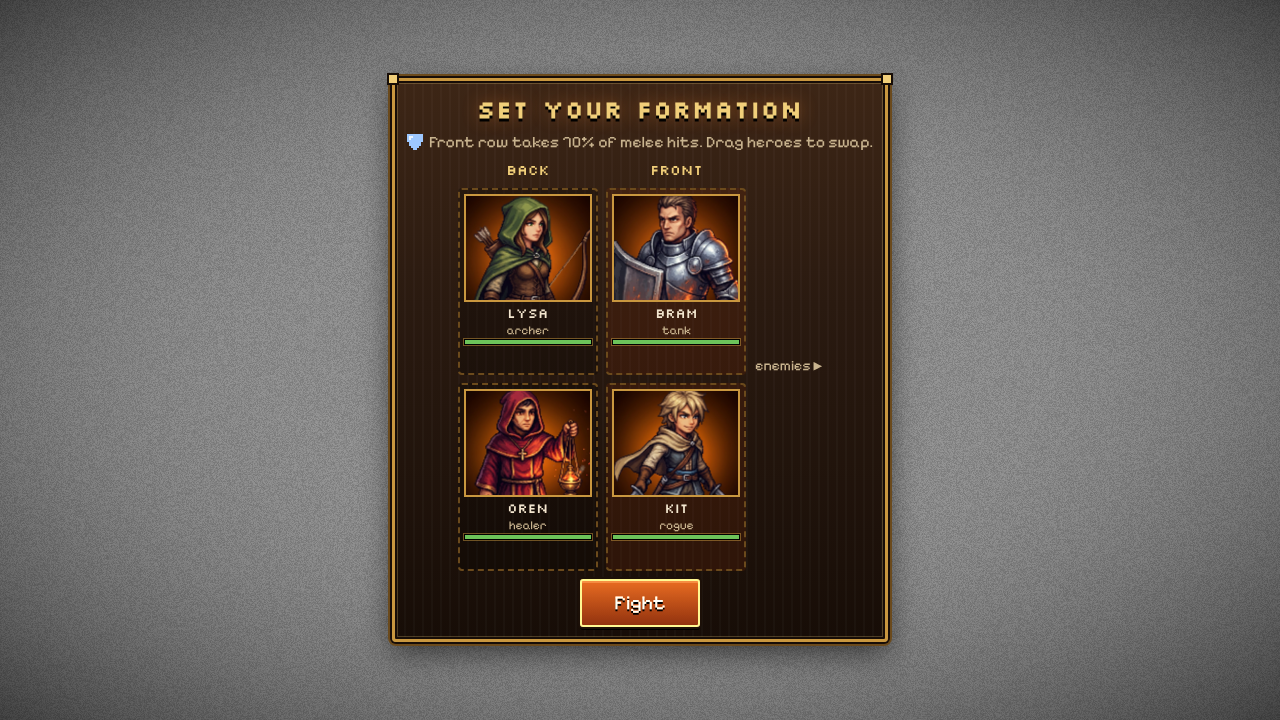
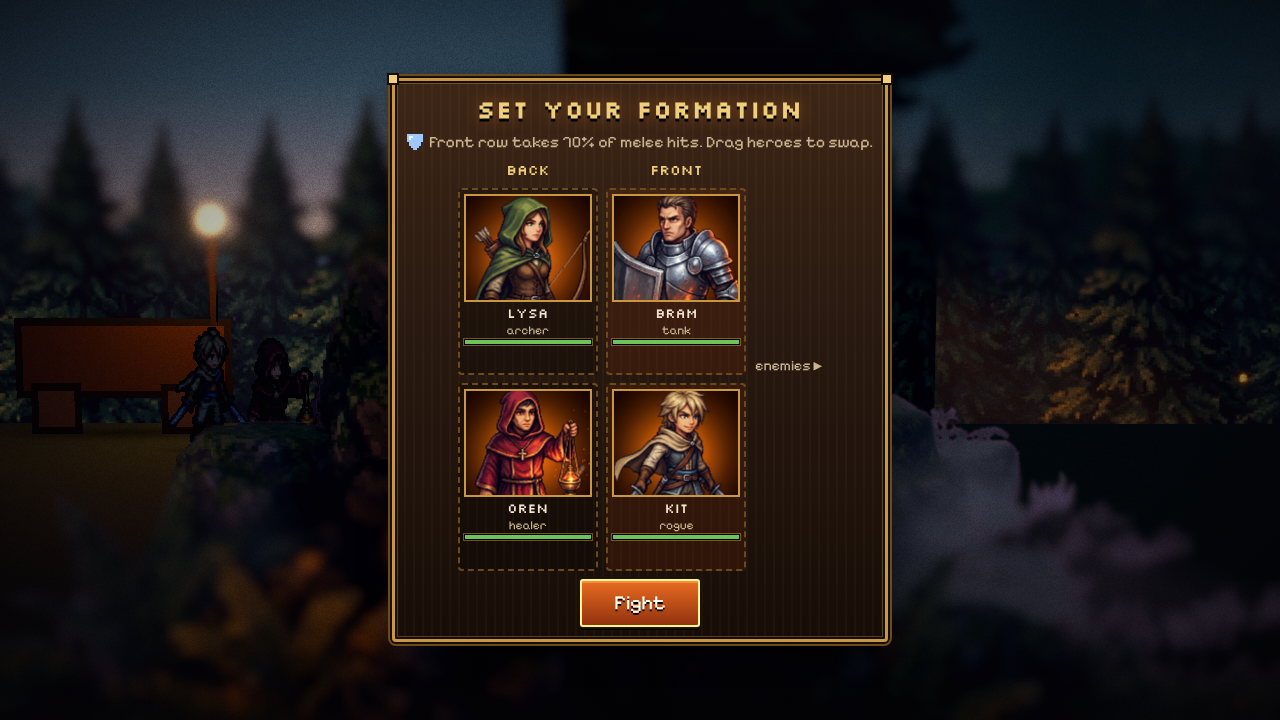
fix(game): apply the initial diorama region, reset scroll in battle, show the diorama behind menus, stagger HUD labels

diff --git a/src/ui/combatHud.ts b/src/ui/combatHud.ts
@@ -49,7 +49,6 @@ export class CombatHud {
   private clock = 0;
   private itemsKey = '';
   paused = false;
-  private lift = 28;
 
   constructor(parent: HTMLElement, private readonly pos: PosFn, state: BattleSnapshot, private readonly act: HudActions, title: string) {
     for (const u of state.units) this.plates.set(u.uid, this.makePlate(u));
@@ -143,8 +142,8 @@ export class CombatHud {
 
   update(dt: number, s: BattleSnapshot, canIgnite: boolean, consumables: readonly string[]): void {
     this.clock += dt;
-    this.lift = Math.round(Math.min(34, Math.max(20, window.innerHeight * 0.05)));
     const gmax = BALANCE.gauge.max;
+    const placed: Array<{ p: Plate; x: number; y: number }> = [];
     for (const u of s.units) {
       const p = this.plates.get(u.uid);
       if (!p) continue;
@@ -152,9 +151,7 @@ export class CombatHud {
       const vis = !!at && u.alive;
       p.el.style.display = vis ? '' : 'none';
       if (!vis || !at) continue;
-      // heroes stand close together: lift the far-slot plates so neighbours don't overlap
-      const lift = u.side === 'hero' && u.slot === 1 ? this.lift : 0;
-      p.el.style.transform = `translate(${Math.round(at.x)}px, ${Math.round(at.y - lift)}px) translate(-50%, -100%)`;
+      placed.push({ p, x: at.x, y: at.y });
       p.hp.style.width = `${(100 * u.hp) / Math.max(1, u.maxHp)}%`;
       p.atb.style.width = `${Math.min(100, (100 * u.gauge) / gmax)}%`;
       if (u.side === 'hero') p.hpText.textContent = `${Math.ceil(u.hp)}/${u.maxHp}`;
@@ -169,6 +166,7 @@ export class CombatHud {
         p.pips.dataset.tip = `Shield ${u.shield}/${u.maxShield}: at 0 the enemy is Broken`;
       }
     }
+    this.layoutPlates(placed);
     const frac = Math.min(1, s.emberMeter / Math.max(1, s.emberMax));
     this.emberFill.style.width = `${frac * 100}%`;
     this.emberText.textContent = `EMBER ${Math.floor(s.emberMeter)}/${s.emberMax}`;
@@ -180,6 +178,28 @@ export class CombatHud {
       const due = this.pending.filter((f) => f.at <= this.clock);
       this.pending = this.pending.filter((f) => f.at > this.clock);
       for (const f of due) this.spawn(f);
+    }
+  }
+
+  /**
+   * Position plates at their unit anchors, then stagger any that would overlap:
+   * left to right, a plate colliding with an already placed one is lifted above it.
+   * All sizes are read before any transform is written (no layout thrash).
+   */
+  private layoutPlates(placed: Array<{ p: Plate; x: number; y: number }>): void {
+    const boxes = placed
+      .map((e) => ({ ...e, w: e.p.el.offsetWidth, h: e.p.el.offsetHeight, top: 0 }))
+      .sort((a, b) => a.x - b.x);
+    const done: typeof boxes = [];
+    for (const b of boxes) {
+      b.top = b.y - b.h; // plate is anchored by its bottom-centre
+      for (let guard = 0; guard < 6; guard++) {
+        const hit = done.find((o) => Math.abs(o.x - b.x) < (o.w + b.w) / 2 + 2 && b.top < o.top + o.h + 2 && b.top + b.h > o.top - 2);
+        if (!hit) break;
+        b.top = hit.top - b.h - 3;
+      }
+      done.push(b);
+      b.p.el.style.transform = `translate(${Math.round(b.x - b.w / 2)}px, ${Math.round(b.top)}px)`;
     }
   }
 

diff --git a/src/ui/ui.css b/src/ui/ui.css
@@ -110,8 +110,12 @@
 .start__seed { position: absolute; right: 12px; bottom: 8px; font-size: 0.75em; opacity: 0.6; }
 
 /* ---------- map ---------- */
-.screen--map { justify-content: flex-start; }
-.map__wrap { width: min(100%, 1100px); flex: 0 1 auto; height: min(58vh, 460px); padding: 6px; margin-top: auto; margin-bottom: 2vh; }
+.screen--map { justify-content: flex-start; padding-bottom: calc(var(--gap) + 1.8em); }
+/* light shade over the marching diorama so panels read while the world stays visible */
+.screen--map, .screen--formation, .screen--camp, .screen--merchant, .screen--event, .screen--reward {
+  background: radial-gradient(ellipse at center, rgba(8, 5, 10, 0.18) 30%, rgba(8, 5, 10, 0.5) 100%);
+}
+.map__wrap { width: min(100%, 1100px); flex: 0 1 auto; height: min(66vh, 540px); padding: 6px; margin: auto 0; }
 .map__board { position: relative; width: 100%; height: 100%; background: center / cover no-repeat; border: 2px solid #6b4a1c; }
 .map__board::before { content: ''; position: absolute; inset: 0; background: radial-gradient(ellipse at center, rgba(240, 220, 170, 0.1), rgba(40, 20, 5, 0.45)); }
 .map__lines { position: absolute; inset: 0; width: 100%; height: 100%; }

diff --git a/src/render/diorama.ts b/src/render/diorama.ts
@@ -75,7 +75,9 @@ export class Diorama {
     this.root.add(this.dusk, this.dusk.target, this.ambient, this.particles.points, this.actors);
     scene.add(this.root);
     scene.fog = this.fog;
-    this.layout(this.aspect);
+    // Apply the initial region now: until setRegion runs, the layers are untextured
+    // white planes (fg draws over everything) and the frame washes out to beige.
+    this.setRegion(this.region.id);
   }
 
   /** Resize every layer to cover the frustum at its depth (call on resize). */
@@ -193,6 +195,17 @@ export class Diorama {
       const img = tex.image as { width: number; height: number } | undefined;
       if (img && onLoad) onLoad(img);
     });
+  }
+
+  /** Snap every scrolled layer back to its authored framing (battle staging). */
+  resetScroll(): void {
+    for (const l of this.layers) {
+      const map = l.mesh.material.map;
+      if (map) map.offset.x = 0;
+    }
+    const gm = this.ground.material.map;
+    if (gm) gm.offset.x = 0;
+    this.sky.material.uniforms.uScroll.value = 0;
   }
 
   /** World units/sec at the actor plane. Perspective turns it into parallax. */

diff --git a/scripts/screens-game.ts b/scripts/screens-game.ts
@@ -13,6 +13,7 @@ interface PwPage {
   waitForFunction(fn: string, arg: unknown, o: { timeout: number }): Promise<unknown>;
   evaluate<T>(fn: string): Promise<T>;
   click(sel: string): Promise<void>;
+  mouse: { move(x: number, y: number): Promise<void> };
   screenshot(o: { path: string }): Promise<unknown>;
   on(ev: 'console', cb: (m: { type(): string; text(): string }) => void): void;
   on(ev: 'pageerror', cb: (e: Error) => void): void;
@@ -170,6 +171,8 @@ async function main(): Promise<void> {
     await shot(phone, 'formation-844x390');
     await phone.click('.screen--formation .btn--ember');
     await untilScreen(phone, 'battle');
+    // park the pointer off the HUD so the tap's hover doesn't leave a tooltip open
+    await phone.mouse.move(2, 200);
     await phone.waitForTimeout(5200);
     await shot(phone, 'battle-844x390');
 

diff --git a/src/game/app.ts b/src/game/app.ts
@@ -38,7 +38,6 @@ export class App {
   private started = false;
   private eventOutcomeShown = false;
   private storyOpen = false;
-  private regionSet = false;
   private readonly hideTip: () => void;
 
   constructor(readonly ctx: RenderContext, parent: HTMLElement, seed: number) {
@@ -151,9 +150,8 @@ export class App {
   private syncRegion(): void {
     const r = this.run.map[Math.min(this.run.regionIdx, this.run.map.length - 1)];
     const id = r?.region;
-    if (!id || !isRegionId(id) || (this.regionSet && this.ctx.diorama.region.id === id)) return;
-    this.regionSet = true;
-    this.ctx.diorama.setRegion(id);
+    if (!id || !isRegionId(id)) return;
+    if (this.ctx.diorama.region.id !== id) this.ctx.diorama.setRegion(id);
     this.ctx.postfx.setGrade(getRegion(id).grade);
   }
 

diff --git a/src/render/combatView.ts b/src/render/combatView.ts
@@ -71,6 +71,8 @@ export class CombatView {
     if (isRegionId(opts.regionId) && ctx.diorama.region.id !== opts.regionId) ctx.diorama.setRegion(opts.regionId);
     ctx.postfx.setGrade(getRegion(opts.regionId).grade);
     ctx.diorama.setScroll(0);
+    // march mode scrolls the layers; restore the authored framing so the fg stays off the stage
+    ctx.diorama.resetScroll();
     ctx.diorama.setFgDrop(FG_DROP);
     // soft front fill so sprites read against the dusk diorama
     this.fill.position.set(0, 5, 14);

diff --git a/pm/STATE.md b/pm/STATE.md
@@ -1,6 +1,6 @@
 # STATE — single source of truth
 
-**Phase:** 3 Core systems (Phase 2 deploy is waiting on the user's Vercel import)
+**Phase:** 5–6 Content & Polish (deploy still waiting on the user's Vercel import)
 **Live URL:** (pending Vercel)
 **Repo:** https://github.com/Son-1202/caravan
 **Credits spent:** 66 / 100
@@ -22,6 +22,9 @@
 | T-08 | ART | regions 3–4 + enemies + bosses | done |
 | T-10 | CONTENT | balance tuning | done (all B7 PASS) |
 | T-11 | ART | relics, Mira, CG, map, UI frame | done |
+| T-09 | DEV | game flow + UI | done (after T-09-fix) |
+| T-12 | DEV | story, title, end screens, save, audio, mobile | in progress |
+| T-13 | DEV | render juice + polish | in progress |
 | T-02 | CONTENT | GDD + data JSON + story | done |
 | T-03 | ART | 3 key-art candidates | done (style bible = B) |
 
